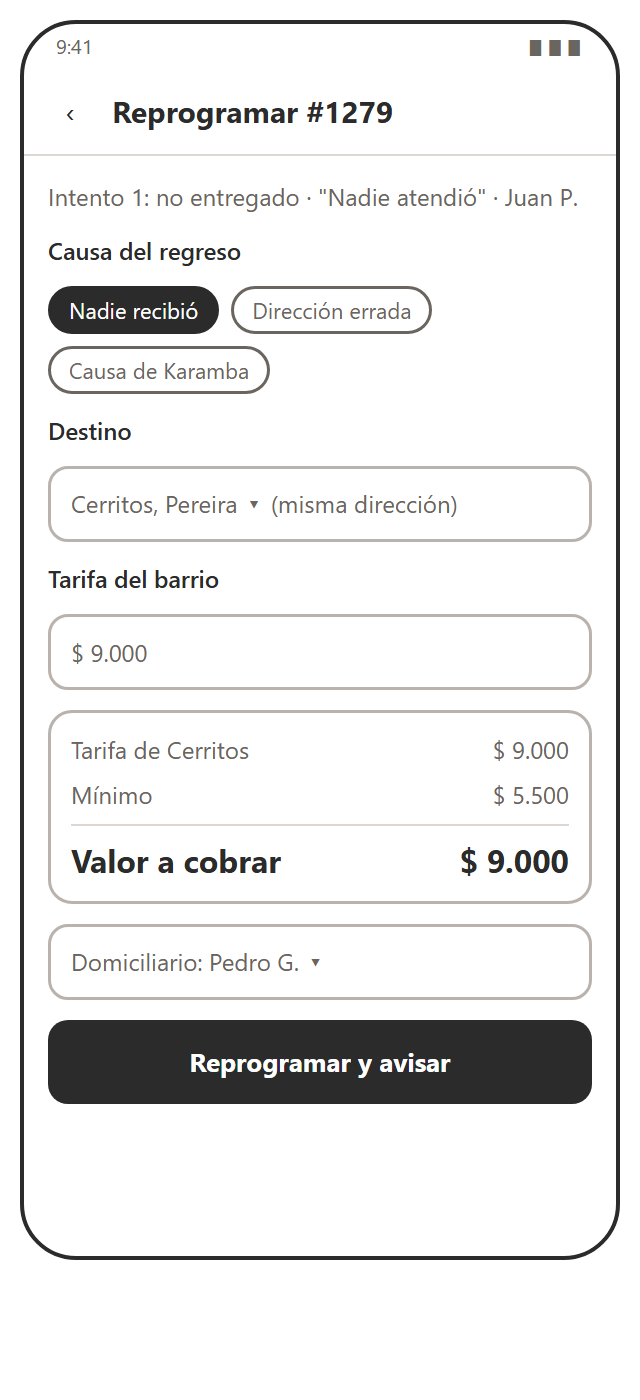
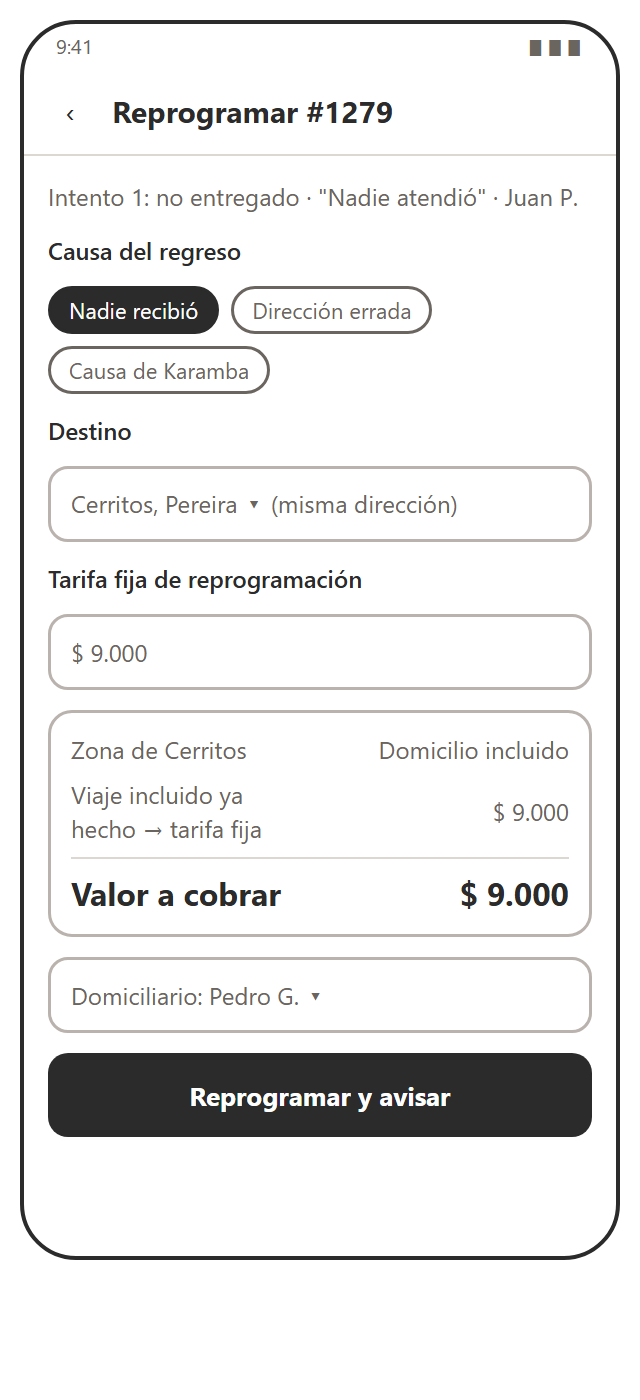
docs: ajusta el cobro del domicilio a las zonas con tarifa
Solo las Comunas 1, 3 y 7, Zaragoza y Puerto Caldas tienen costo de
domicilio; en el resto va incluido. Al reprogramar, una zona con tarifa
cobra su tarifa y una zona con domicilio incluido cobra una tarifa fija.

Changed region(s): [[0.0625, 0.5221, 0.9375, 0.8293], [0.1875, 0.3993, 0.5625, 0.43]]

diff --git a/docs/wireframes/index.html b/docs/wireframes/index.html
@@ -463,11 +463,11 @@
           <div class="chips"><span class="chip sel">Nadie recibió</span><span class="chip">Dirección errada</span><span class="chip">Causa de Karamba</span></div>
           <div class="etq">Destino</div>
           <div class="campo">Cerritos, Pereira ▾ (misma dirección)</div>
-          <div class="etq">Tarifa del barrio</div>
+          <div class="etq">Tarifa fija de reprogramación</div>
           <div class="campo">$ 9.000</div>
           <div class="caja">
-            <div class="fila txt"><span>Tarifa de Cerritos</span><span style="text-align:right">$ 9.000</span></div>
-            <div class="fila txt"><span>Mínimo</span><span style="text-align:right">$ 5.500</span></div>
+            <div class="fila txt"><span>Zona de Cerritos</span><span style="text-align:right">Domicilio incluido</span></div>
+            <div class="fila txt"><span>Viaje incluido ya hecho → tarifa fija</span><span style="text-align:right">$ 9.000</span></div>
             <div class="sep"></div>
             <div class="fila"><b>Valor a cobrar</b><b style="text-align:right">$ 9.000</b></div>
           </div>
@@ -475,7 +475,7 @@
           <div class="btn">Reprogramar y avisar</div>
         </div>
       </div>
-      <figcaption><b>Reprogramar con cobro (cálculo)</b><code>domicilio/[id]/reprogramar</code> · RF-17, RN-09. Se recalcula al cambiar la causa o el barrio. "Causa de Karamba" → $0. Tarifa vacía, no numérica, negativa o con decimales → mensaje.</figcaption>
+      <figcaption><b>Reprogramar con cobro (cálculo)</b><code>domicilio/[id]/reprogramar</code> · RF-17, RN-09. Se recalcula al cambiar la causa o el barrio. En una zona con domicilio incluido se cobra la tarifa fija; en una zona con costo, la de la zona. "Causa de Karamba" → $0. Tarifa vacía, no numérica, negativa o con decimales → mensaje.</figcaption>
     </figure>
 
     <figure id="historial">

diff --git a/docs/requisitos.md b/docs/requisitos.md
@@ -43,7 +43,7 @@ Versión del 2026-11-09. Los datos que el cliente todavía no confirma están ma
 
 | Entradas | Reglas | Resultado |
 | --- | --- | --- |
-| Tarifa del destino (ciudad o barrio), causa del regreso, cambio de dirección | RN-08 y RN-09 | Valor del domicilio nuevo, domicilio reasignado y valor visible en el seguimiento del cliente |
+| Zona del destino (con costo o con domicilio incluido), causa del regreso, cambio de dirección | RN-08 y RN-09 | Valor del domicilio nuevo, domicilio reasignado y valor visible en el seguimiento del cliente |
 
 ### Fuera del alcance
 
@@ -65,7 +65,7 @@ Versión del 2026-11-09. Los datos que el cliente todavía no confirma están ma
 | RN-06 | Al confirmar la entrega, las unidades entregadas de cada producto van de 0 a la cantidad pedida. Si alguna es menor que lo pedido, el resultado es *entrega parcial* y el motivo es obligatorio. Si todas son 0, no se puede confirmar como entrega: hay que reportar *no entregado*. |
 | RN-07 | Para reportar *no entregado* son obligatorios el motivo y la foto. Antes se muestra el protocolo de Karamba: contactar al destinatario, luego al cliente y luego a Karamba. |
 | RN-08 | Solo se reprograma un domicilio vigente en *no entregado* o *entrega parcial*. La reprogramación crea un intento nuevo; el anterior queda en el historial. |
-| RN-09 | Valor del domicilio nuevo = tarifa del destino (la del barrio si tiene una propia; si no, la de la ciudad), con un mínimo de $5.500. Si la causa es de Karamba (retraso o error interno), el valor es $0. Si la dirección cambia, se usa la tarifa del destino nuevo. La tarifa no puede quedar vacía, ser negativa ni tener decimales. Tarifas por ciudad y barrio **[Por confirmar con el cliente]**. |
+| RN-09 | El domicilio solo tiene costo en las zonas con tarifa: la Comuna 1, la Comuna 3 y la Comuna 7 de Cartago, Zaragoza y Puerto Caldas. En el resto de destinos está incluido en el precio del pedido. Valor del domicilio nuevo al reprogramar: en una zona con tarifa, la tarifa de esa zona; en una zona con domicilio incluido, una tarifa fija de reprogramación, porque el viaje incluido ya se hizo. Si la causa es de Karamba (retraso o error interno), el valor es $0. Si la dirección cambia, se usa la zona del destino nuevo. Ninguna tarifa puede quedar vacía, ser negativa ni tener decimales. Valores de las tarifas **[Por confirmar con el cliente]**. |
 
 ## 4. Requisitos funcionales
 
@@ -106,7 +106,7 @@ Prioridad: **Alta** es el núcleo del proceso principal; **Media** completa una 
 | --- | --- | --- | --- | --- | --- |
 | RF-15 | Domicilios en curso | Lista de todos los domicilios de hoy con filtro por domiciliario y por estado. | Administrador | Alta | Muestra el mismo tratamiento de carga, vacío y error que RF-09. Los no entregados vigentes aparecen primero. |
 | RF-16 | Mapa de supervisión | Mapa con el punto de despacho y la última posición de cada domiciliario en camino. | Administrador | Media | Cada marcador muestra el nombre del domiciliario y la hora de su posición. Tocarlo abre el detalle del domicilio. Se actualiza cada 15 segundos mientras la pantalla está abierta y deja de consultar al salir. |
-| RF-17 | Reprogramar con cobro | Sobre un domicilio *no entregado* o *entrega parcial*, el administrador elige la causa, confirma o cambia el destino, ve el valor calculado y asigna un domiciliario. | Administrador | Media | El valor se recalcula al cambiar la causa o el barrio (RN-09). Una tarifa vacía, no numérica, negativa o con decimales se rechaza con mensaje. No se puede guardar sin domiciliario. El intento anterior queda en el historial. |
+| RF-17 | Reprogramar con cobro | Sobre un domicilio *no entregado* o *entrega parcial*, el administrador elige la causa, confirma o cambia el destino, ve el valor calculado y asigna un domiciliario. | Administrador | Media | El valor se recalcula al cambiar la causa o el barrio, y la pantalla dice si el destino está en una zona con tarifa o con domicilio incluido (RN-09). Una tarifa vacía, no numérica, negativa o con decimales se rechaza con mensaje. No se puede guardar sin domiciliario. El intento anterior queda en el historial. |
 | RF-18 | Historial | Domicilios terminados con filtro por fecha, domiciliario y resultado. | Domiciliario, administrador | Media | El domiciliario ve solo los suyos. Sin resultados se muestra un estado vacío con la opción de limpiar los filtros. |
 
 ### 4.5 Mapa, ubicación y permisos
@@ -139,7 +139,7 @@ EnCamino usa el backend de Karamba (Django REST con JWT). Lo que ya existe se re
 | B-04 | Posiciones del domiciliario | — | Modelo de posiciones; `POST .../<pk>/posicion/` (domiciliario asignado); `GET` de la última posición para el administrador y para el seguimiento público por código, este último solo mientras está *en camino* (RN-04). |
 | B-05 | Entrega con unidades por línea | `POST publico/<token>/entregar/` | Tabla con las unidades entregadas por línea y el motivo. **Decisión pendiente:** agregar *entrega parcial* como valor nuevo de `resultado` toca la lógica de reasignación, que depende de `resultado='NO_ENTREGADO'`. La alternativa es dejar `resultado=ENTREGADO` con una marca de parcial y el detalle por línea. |
 | B-06 | No entrega con foto | `POST publico/<token>/no-entregar/` y firma de Cloudinary | Versión autenticada para la app, con las mismas validaciones. |
-| B-07 | Reprogramación con cobro | `POST .../<pk>/reasignar/` | Tarifa de domicilio por ciudad y por barrio; causa y valor en el intento nuevo; aceptar también *entrega parcial*. |
+| B-07 | Reprogramación con cobro | `POST .../<pk>/reasignar/` | Zonas con tarifa (Comunas 1, 3 y 7, Zaragoza y Puerto Caldas) asignadas a sus barrios y tarifa fija de reprogramación, editables desde el panel; causa y valor en el intento nuevo; aceptar también *entrega parcial*. |
 | B-08 | Seguimiento del cliente | `GET /api/pedidos/pedidos/seguimiento/<token>/` | Agregar el estado del domicilio vigente, la última posición (según RN-04) y el valor de reprogramación. |
 | B-09 | Entorno local | La base está fija en PostgreSQL y el desarrollo local apunta a la misma base que producción. | Variable de entorno para usar una base local con datos de prueba. |
 | B-10 | Posiciones de todos en camino | — | `GET .../en-camino/` (solo administrador): en una sola respuesta, cada domicilio *en camino* con su domiciliario, número de pedido, barrio y última posición. Lo usan el mapa de supervisión de la app (RF-16) y el tablero (RF-22), para no hacer una consulta por domiciliario cada 15 segundos. |
@@ -245,7 +245,8 @@ La columna "Evidencia" se completa a medida que cada requisito se demuestra (com
 ## 11. Por confirmar con el cliente
 
 - Dirección y coordenadas del punto de despacho en Cartago.
-- Tarifas de domicilio por ciudad y por barrio (RN-09); hoy solo se conoce el mínimo publicado de $5.500.
+- Valor de la tarifa de cada zona con costo y de la tarifa fija de reprogramación (RN-09); la web publica "desde $5.500".
+- Qué barrios forman la Comuna 1, la Comuna 3 y la Comuna 7, para asignarlos a su zona (RN-09).
 - Causas del regreso que se consideran de Karamba y no se cobran (RN-09).
 - Intervalo de envío de la posición (RN-03).
 - Si una entrega parcial se registra como resultado propio o como entrega con marca de parcial (B-05).

diff --git a/docs/negocio.md b/docs/negocio.md
@@ -27,8 +27,8 @@ Motivos de pedido: cumpleaños, aniversario, amor y amistad, día de la madre, a
 
 ## Domicilio
 
-- El domicilio no está incluido en el precio, salvo en algunos productos para la zona central de Cartago.
-- Cuesta **desde $5.500** según el destino. El cliente también puede recoger el pedido.
+- El domicilio solo tiene costo en la Comuna 1, la Comuna 3 y la Comuna 7 de Cartago, Zaragoza y Puerto Caldas. En el resto de destinos está incluido en el precio (confirmado por Karamba el 2026-11-09).
+- En las zonas con costo, la web publica **desde $5.500**. El cliente también puede recoger el pedido.
 - **El tiempo estimado de entrega es de media a una hora.**
 - El domiciliario espera un tiempo prudencial. Si tiene que regresar, el pedido se reprograma y el domicilio nuevo se cobra antes. Pasa lo mismo cuando hay cambios o errores en la dirección.
 - No se toman fotos durante la entrega, para cuidar la privacidad de quien recibe. Al cliente se le comparte una foto del regalo antes de salir.
@@ -37,6 +37,6 @@ Motivos de pedido: cumpleaños, aniversario, amor y amistad, día de la madre, a
 ## Reglas que salen de aquí para la app
 
 - **Estados del domicilio:** *pendiente*, *en camino*, *entregado* y *no entregado*. El último cubre cuando el domiciliario espera y nadie recibe.
-- **Total del pedido:** suma de unidades por precio, más el valor del domicilio, que es como mínimo $5.500 o $0 si el cliente recoge.
+- **Total del pedido:** suma de unidades por precio, más el valor del domicilio, que es $0 si el destino tiene el domicilio incluido o si el cliente recoge.
 - **Hora estimada de llegada:** salida más 30 a 60 minutos.
 - **Pago en efectivo:** el cambio que debe llevar el domiciliario es el billete con que paga el cliente menos el total. El billete no puede ser menor que el total.
